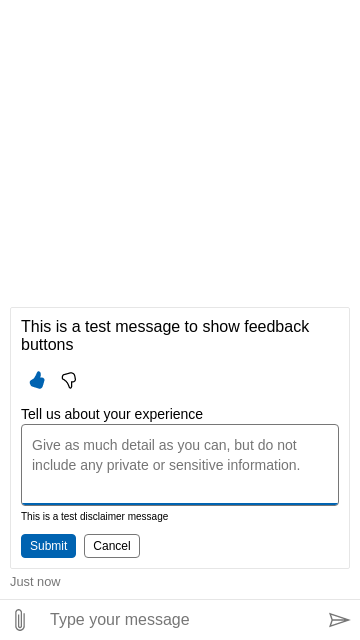
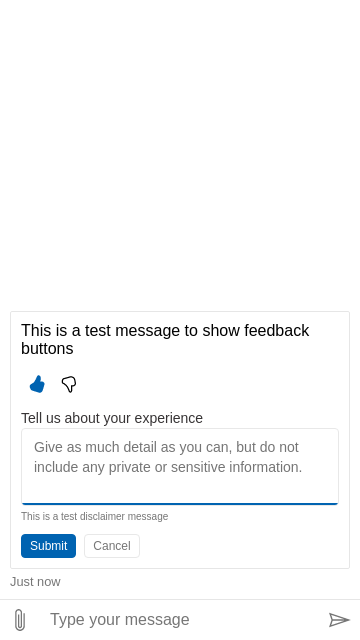
some test updates

diff --git a/packages/component/src/Activity/private/Feedback.tsx b/packages/component/src/Activity/private/Feedback.tsx
@@ -1,53 +1,82 @@
 import { hooks } from 'botframework-webchat-api';
 import { type OrgSchemaAction } from 'botframework-webchat-core';
-import React, { Fragment, memo, useMemo, type PropsWithChildren } from 'react';
+import React, { Fragment, memo, useEffect, useMemo, type PropsWithChildren } from 'react';
+import { useRefFrom } from 'use-ref-from';
 
 import FeedbackVoteButton from './VoteButton';
 
-const { useLocalizer } = hooks;
+const { usePonyfill, usePostActivity, useLocalizer } = hooks;
 
 type Props = Readonly<
   PropsWithChildren<{
     actions: ReadonlySet<OrgSchemaAction>;
     className?: string | undefined;
+    isFeedbackFormSupported?: boolean;
     onHandleFeedbackActionClick?: (action: OrgSchemaAction) => void;
     selectedAction?: OrgSchemaAction | undefined;
   }>
 >;
 
-const Feedback = memo(({ actions, className, onHandleFeedbackActionClick, selectedAction }: Props) => {
-  const localize = useLocalizer();
+const DEBOUNCE_TIMEOUT = 500;
 
-  const actionProps = useMemo(
-    () =>
-      [...actions].some(action => action.actionStatus === 'CompletedActionStatus')
-        ? {
-            disabled: true,
-            title: localize('VOTE_COMPLETE_ALT')
-          }
-        : undefined,
-    [actions, localize]
-  );
+const Feedback = memo(
+  ({ actions, className, isFeedbackFormSupported, onHandleFeedbackActionClick, selectedAction }: Props) => {
+    const [{ clearTimeout, setTimeout }] = usePonyfill();
+    const postActivity = usePostActivity();
+    const localize = useLocalizer();
 
-  return (
-    <Fragment>
-      {[...actions].map((action, index) => (
-        <FeedbackVoteButton
-          action={action}
-          className={className}
-          key={action['@id'] || index}
-          onClick={onHandleFeedbackActionClick}
-          pressed={
-            selectedAction === action ||
-            action.actionStatus === 'CompletedActionStatus' ||
-            action.actionStatus === 'ActiveActionStatus'
-          }
-          {...actionProps}
-        />
-      ))}
-    </Fragment>
-  );
-});
+    const postActivityRef = useRefFrom(postActivity);
+
+    useEffect(() => {
+      if (!selectedAction || isFeedbackFormSupported) {
+        return;
+      }
+
+      const timeout = setTimeout(
+        () =>
+          // TODO: We should update this to use W3C Hydra.1
+          postActivityRef.current({
+            entities: [selectedAction],
+            name: 'webchat:activity-status/feedback',
+            type: 'event'
+          } as any),
+        DEBOUNCE_TIMEOUT
+      );
+
+      return () => clearTimeout(timeout);
+    }, [clearTimeout, isFeedbackFormSupported, postActivityRef, selectedAction, setTimeout]);
+
+    const actionProps = useMemo(
+      () =>
+        [...actions].some(action => action.actionStatus === 'CompletedActionStatus')
+          ? {
+              disabled: true,
+              title: localize('VOTE_COMPLETE_ALT')
+            }
+          : undefined,
+      [actions, localize]
+    );
+
+    return (
+      <Fragment>
+        {[...actions].map((action, index) => (
+          <FeedbackVoteButton
+            action={action}
+            className={className}
+            key={action['@id'] || index}
+            onClick={onHandleFeedbackActionClick}
+            pressed={
+              selectedAction === action ||
+              action.actionStatus === 'CompletedActionStatus' ||
+              action.actionStatus === 'ActiveActionStatus'
+            }
+            {...actionProps}
+          />
+        ))}
+      </Fragment>
+    );
+  }
+);
 
 Feedback.displayName = 'ActivityStatusFeedback';
 

diff --git a/packages/component/src/Activity/ActivityFeedback.tsx b/packages/component/src/Activity/ActivityFeedback.tsx
@@ -1,7 +1,7 @@
 import { hooks } from 'botframework-webchat-api';
 import { getOrgSchemaMessage, OrgSchemaAction, parseAction, WebChatActivity } from 'botframework-webchat-core';
 import classNames from 'classnames';
-import React, { memo, useCallback, useEffect, useMemo, useState } from 'react';
+import React, { memo, useCallback, useMemo, useState } from 'react';
 import { defaultFeedbackEntities } from './private/DefaultFeedbackEntities';
 import { hasFeedbackLoop, getDisclaimer } from './private/feedbackActivity.util';
 
@@ -9,9 +9,8 @@ import Feedback from './private/Feedback';
 import dereferenceBlankNodes from '../Utils/JSONLinkedData/dereferenceBlankNodes';
 import FeedbackForm from './private/FeedbackForm';
 import { useStyleToEmotionObject } from '../hooks/internal/styleToEmotionObject';
-import { useRefFrom } from 'use-ref-from';
 
-const { useStyleOptions, usePostActivity, usePonyfill } = hooks;
+const { useStyleOptions } = hooks;
 
 type ActivityFeedbackProps = Readonly<{
   activity: WebChatActivity;
@@ -43,15 +42,9 @@ const useGetMessageThing = (activity: WebChatActivity) =>
     return { isFeedbackLoopSupported: false, messageThing, graph };
   }, [activity]);
 
-const DEBOUNCE_TIMEOUT = 500;
-
 function ActivityFeedback({ activity }: ActivityFeedbackProps) {
-  const [{ clearTimeout, setTimeout }] = usePonyfill();
-  const postActivity = usePostActivity();
-
   const [{ feedbackActionsPlacement }] = useStyleOptions();
   const rootClassName = useStyleToEmotionObject()(ROOT_STYLE) + '';
-  const postActivityRef = useRefFrom(postActivity);
 
   const [selectedAction, setSelectedAction] = useState<OrgSchemaAction | undefined>();
 
@@ -78,28 +71,12 @@ function ActivityFeedback({ activity }: ActivityFeedbackProps) {
     return Object.freeze(new Set([] as OrgSchemaAction[]));
   }, [graph, messageThing?.potentialAction]);
 
-  const handleFeedbackActionClick = useCallback((action?: OrgSchemaAction) => {
-    setSelectedAction(action);
-  }, []);
-
-  useEffect(() => {
-    if (!selectedAction) {
-      return;
-    }
-
-    const timeout = setTimeout(
-      () =>
-        // TODO: We should update this to use W3C Hydra.1
-        postActivityRef.current({
-          entities: [selectedAction],
-          name: 'webchat:activity-status/feedback',
-          type: 'event'
-        } as any),
-      DEBOUNCE_TIMEOUT
-    );
-
-    return () => clearTimeout(timeout);
-  }, [clearTimeout, postActivityRef, selectedAction, setTimeout]);
+  const handleFeedbackActionClick = useCallback(
+    (action?: OrgSchemaAction) => {
+      setSelectedAction(action === selectedAction ? undefined : action);
+    },
+    [selectedAction]
+  );
 
   const FeedbackComponent = useMemo(
     () => (
@@ -108,10 +85,12 @@ function ActivityFeedback({ activity }: ActivityFeedbackProps) {
         className={classNames({
           'webchat__thumb-button--large': feedbackActionsPlacement === 'activity-actions'
         })}
+        isFeedbackFormSupported={isFeedbackLoopSupported}
         onHandleFeedbackActionClick={handleFeedbackActionClick}
+        selectedAction={selectedAction}
       />
     ),
-    [feedbackActions, feedbackActionsPlacement, handleFeedbackActionClick]
+    [feedbackActions, feedbackActionsPlacement, handleFeedbackActionClick, isFeedbackLoopSupported, selectedAction]
   );
 
   const FeedbackFormComponent = useMemo(

diff --git a/packages/component/src/Activity/private/feedbackActivity.util.ts b/packages/component/src/Activity/private/feedbackActivity.util.ts
@@ -1,10 +1,10 @@
 import { type WebChatActivity } from 'botframework-webchat-core';
-import { object, safeParse, string } from 'valibot';
+import { literal, object, safeParse, string } from 'valibot';
 
 const activityWithFeedbackLoopSchema = object({
   channelData: object({
     feedbackLoop: object({
-      type: string(),
+      type: literal('default'),
       disclaimer: string()
     })
   })
@@ -15,7 +15,7 @@ type FeedbackActivity = WebChatActivity & {
 };
 
 export const hasFeedbackLoop = (activity: WebChatActivity): activity is FeedbackActivity =>
-  safeParse(activityWithFeedbackLoopSchema, activity.channelData).success;
+  safeParse(activityWithFeedbackLoopSchema, activity).success;
 
 export const getDisclaimer = (activity: WebChatActivity): string | undefined =>
   hasFeedbackLoop(activity) ? activity.channelData.feedbackLoop.disclaimer : undefined;

diff --git a/packages/component/src/Styles/StyleSet/FeedbackTextArea.ts b/packages/component/src/Styles/StyleSet/FeedbackTextArea.ts
@@ -21,7 +21,7 @@ export default function createFeedbackTextAreaStyle() {
       '&::after': {
         borderBottomLeftRadius: '4px',
         borderBottomRightRadius: '4px',
-        borderBottom: `3px solid ${CSSTokens.FeedbackFormNeutralLight}`,
+        borderBottom: `3px solid ${CSSTokens.FeedbackFormPrimary}`,
         bottom: '-1px',
         clipPath: 'inset(calc(100% - 3px) 50% 0 50%)',
         content: '""',
@@ -32,7 +32,7 @@ export default function createFeedbackTextAreaStyle() {
         transition: 'clip-path 0 cubic-bezier(1, 0, 1, 1)'
       },
       '&:focus-within': {
-        border: `1px solid ${CSSTokens.FeedbackFormPrimary}`
+        border: `1px solid ${CSSTokens.FeedbackFormNeutralLight}`
       },
       '&:focus-within::after': {
         clipPath: 'inset(calc(100% - 3px) 0 0 0)',

diff --git a/__tests__/html2/activity/feedback.form.activity.html b/__tests__/html2/activity/feedback.form.activity.html
@@ -66,7 +66,7 @@
         await host.snapshot('local');
 
         // Dismiss like button
-        await host.sendShiftTab(1);
+        await host.sendShiftTab(2);
         await host.sendKeys('ENTER');
 
         await host.snapshot('local');
@@ -102,6 +102,9 @@
         );
 
         await host.sendKeys('Test feedback');
+
+        await host.snapshot('local');
+
         const { activity } = await directLine.actPostActivity(async () => {
           await host.sendTab(1);
           await host.sendKeys('ENTER');
@@ -116,7 +119,7 @@
               actionValue: {
                 reaction: 'dislike',
                 feedback: {
-                  feedbackText: expect.any('Test feedback')
+                  feedbackText: 'Test feedback'
                 }
               }
             }
